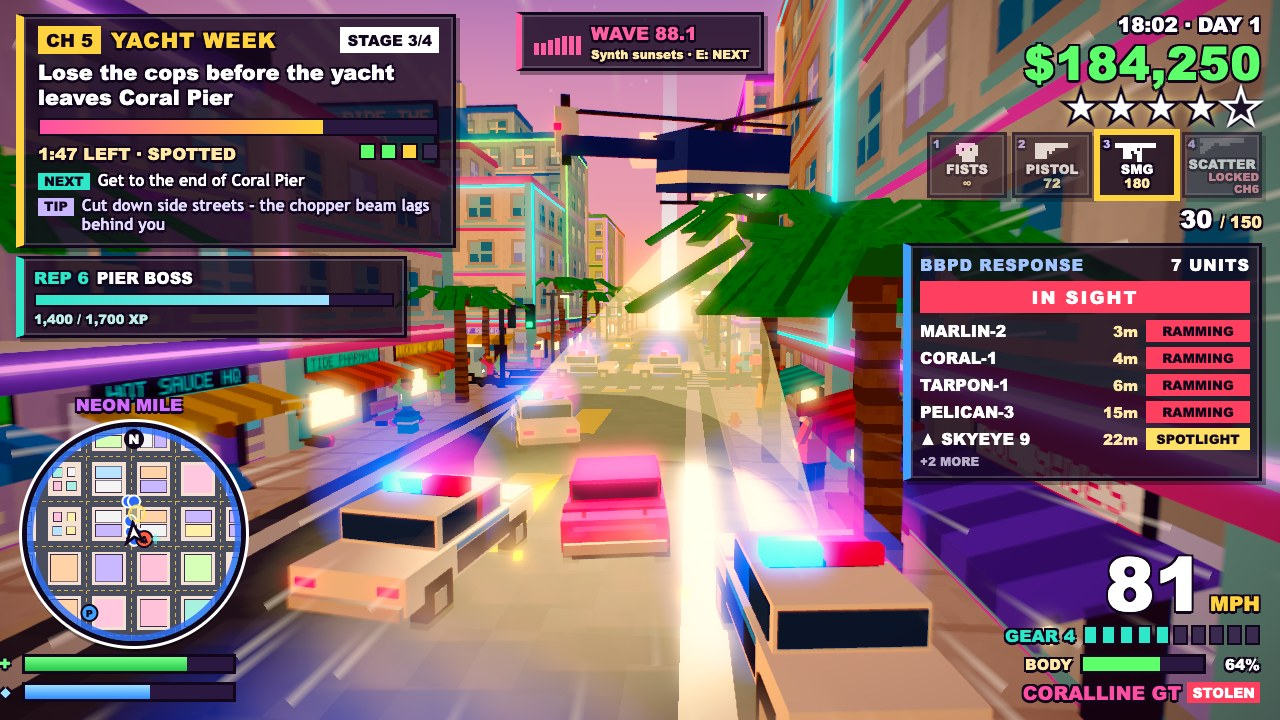
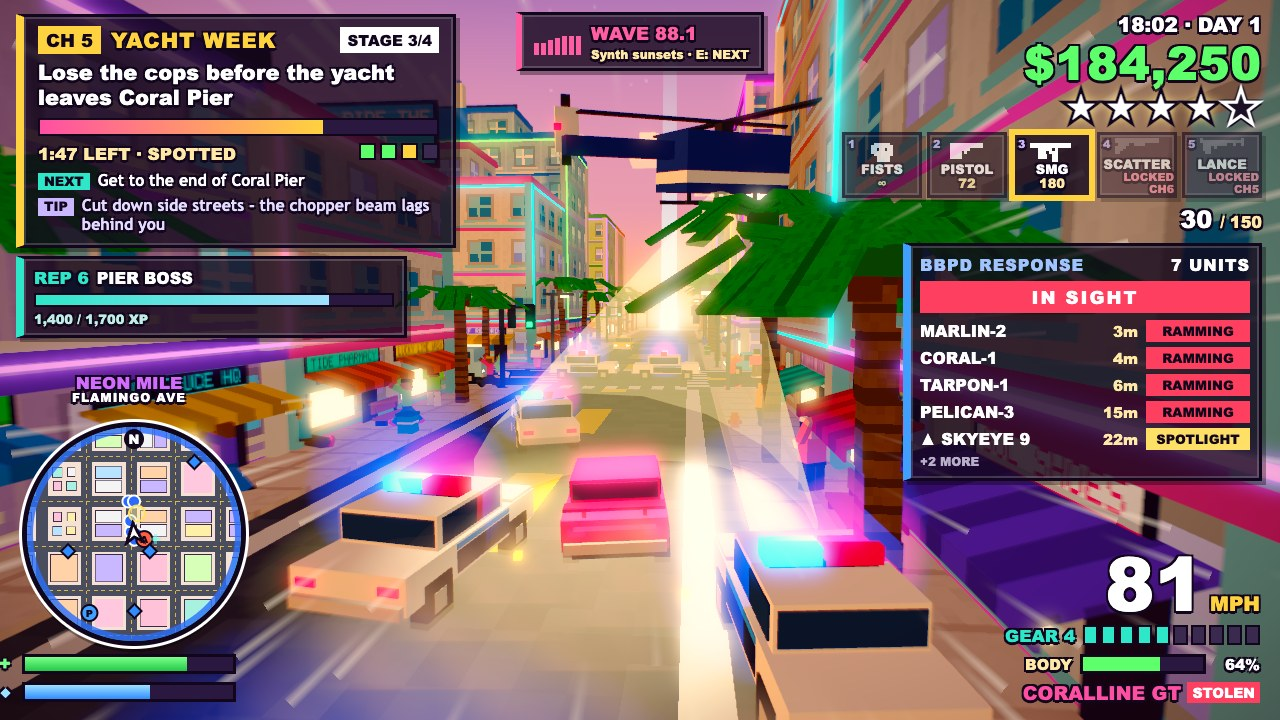
Screenshots recaptured (chase, title, combat, map: same scenes, now with 5 weapon slots, street names, 4-stage story panel, 7 menu tabs); menu entrance animations skipped in staged shots, NOW ENTERING card moved top-centre clear of the police panel, pause-map route drawn under district labels

diff --git a/game/src/ui/pause-map.js b/game/src/ui/pause-map.js
@@ -25,6 +25,18 @@ export function drawPauseMap(cv) {
   g.drawImage(img, a.x, a.y, b.x - a.x, b.y - a.y, 0, 0, cv.width, cv.height);
   const sx = cv.width / (VIEW.x1 - VIEW.x0), sz = cv.height / (VIEW.z1 - VIEW.z0);
   const P = (x, z) => ({ x: (x - VIEW.x0) * sx, y: (z - VIEW.z0) * sz });
+  // GPS route to the current job (the same router as the minimap), under the labels so they stay readable.
+  const cur = ms.def || nextMission();
+  const goal = ms.goal || (cur && city.landmarks[cur.start]);
+  if (goal) {
+    const pts = gpsRoute(player.x, player.z, goal.x, goal.z).map((q) => P(q.x, q.z));
+    g.lineJoin = 'round';
+    for (const [w, c] of [[9, '#12061c'], [5, '#ff4fa3']]) {
+      g.beginPath(); pts.forEach((q, i) => (i ? g.lineTo(q.x, q.y) : g.moveTo(q.x, q.y)));
+      g.lineWidth = w; g.strokeStyle = c; g.setLineDash(c === '#12061c' ? [] : [10, 6]); g.stroke();
+    }
+    g.setLineDash([]);
+  }
   for (const d of DISTRICTS) {
     const [bx, bz] = LABEL_AT[d.id];
     label(g, d.name, P(bx * CELL, bz * CELL), d.color);
@@ -54,18 +66,6 @@ export function drawPauseMap(cv) {
     g.fillStyle = '#12061c'; g.font = 'bold 11px Arial Black, sans-serif'; g.textAlign = 'center'; g.fillText(s.ch, p.x, p.y + 4);
   }
   for (const s of foundShells()) { const p = P(s.x, s.z); g.fillStyle = '#12061c'; g.fillRect(p.x - 4, p.y - 4, 8, 8); g.fillStyle = '#5ffff0'; g.fillRect(p.x - 2.5, p.y - 2.5, 5, 5); }
-  // GPS route to the current job (the same router as the minimap).
-  const cur = ms.def || nextMission();
-  const goal = ms.goal || (cur && city.landmarks[cur.start]);
-  if (goal) {
-    const pts = gpsRoute(player.x, player.z, goal.x, goal.z).map((q) => P(q.x, q.z));
-    g.lineJoin = 'round';
-    for (const [w, c] of [[9, '#12061c'], [5, '#ff4fa3']]) {
-      g.beginPath(); pts.forEach((q, i) => (i ? g.lineTo(q.x, q.y) : g.moveTo(q.x, q.y)));
-      g.lineWidth = w; g.strokeStyle = c; g.setLineDash(c === '#12061c' ? [] : [10, 6]); g.stroke();
-    }
-    g.setLineDash([]);
-  }
   // Story pins, numbered 1-9: done (green tick), the current job (big, yellow), the rest (grey).
   const byStart = {};
   MISSIONS.forEach((m, i) => (byStart[m.start] ||= []).push(i));

diff --git a/game/hud.css b/game/hud.css
@@ -81,9 +81,10 @@
 #district b { display: block; font-weight: normal; }
 #district small { display: block; font-size: 12px; letter-spacing: 1px; color: #fff; white-space: nowrap; }
 /* NOW ENTERING card (ui/location.js) */
-#loccard { position: absolute; right: 24px; bottom: 236px; text-align: right; padding: 6px 14px 7px; background: rgba(18, 6, 28, 0.82); border: 3px solid var(--ink); border-left: 8px solid #fff;
-  transform: translateX(120%); opacity: 0; transition: transform 0.4s cubic-bezier(.2,1.2,.4,1), opacity 0.3s; }
-#loccard.show { transform: none; opacity: 1; }
+#loccard { position: absolute; left: 50%; top: 80px; text-align: center; padding: 5px 18px 6px; background: rgba(18, 6, 28, 0.82); border: 3px solid var(--ink); border-left: 8px solid #fff;
+  transform: translate(-50%, -24px); opacity: 0; transition: transform 0.4s cubic-bezier(.2,1.2,.4,1), opacity 0.3s; }
+#loccard.show { transform: translate(-50%, 0); opacity: 1; }
+#hud.act-on #loccard, .shot #loccard { display: none; }
 #loccard small { display: block; font-size: 11px; letter-spacing: 3px; color: #ffe9a8; }
 #loccard b { display: block; font-size: 28px; font-weight: normal; line-height: 1.05; }
 #loccard em { display: block; font-style: normal; font-size: 13px; letter-spacing: 1px; }

diff --git a/game/menus.css b/game/menus.css
@@ -142,3 +142,5 @@
 #title .menu .btn { transition: background 0.12s, transform 0.12s; }
 #title .menu .btn.sel { transform: translateX(6px); }
 #pause .tab { transition: background 0.12s, color 0.12s; }
+/* Staged screenshots freeze animations on frame one, so the entrance animations are skipped there. */
+.shot #pause, .shot #pause *, .shot #title .sub { animation: none !important; }
